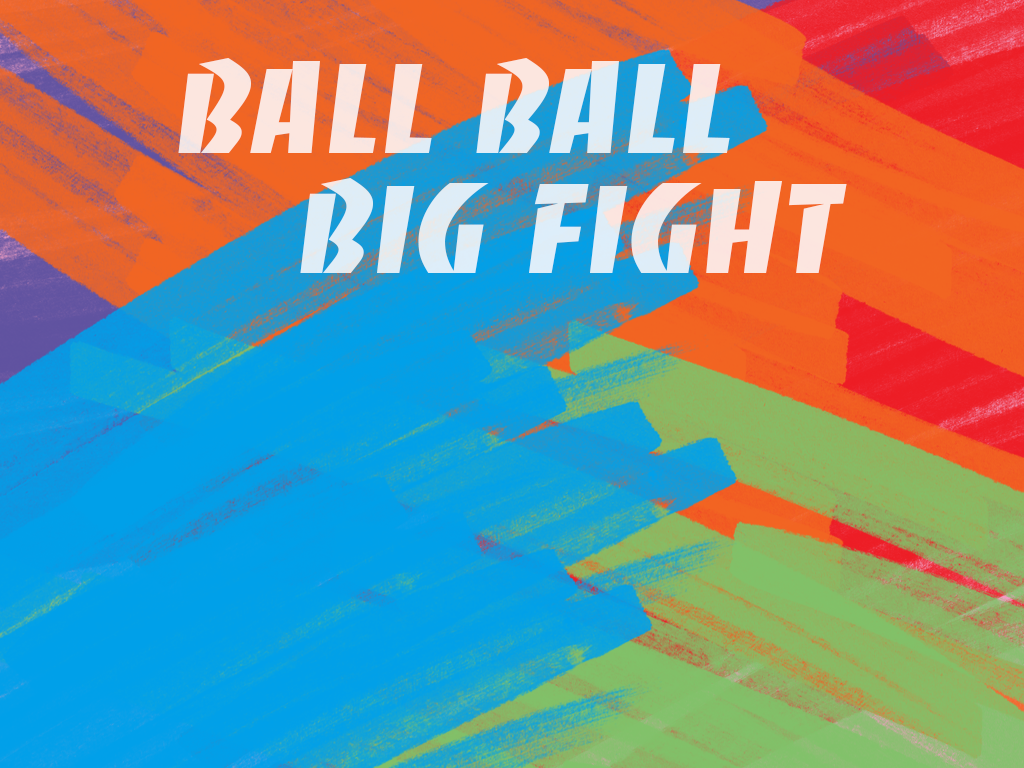
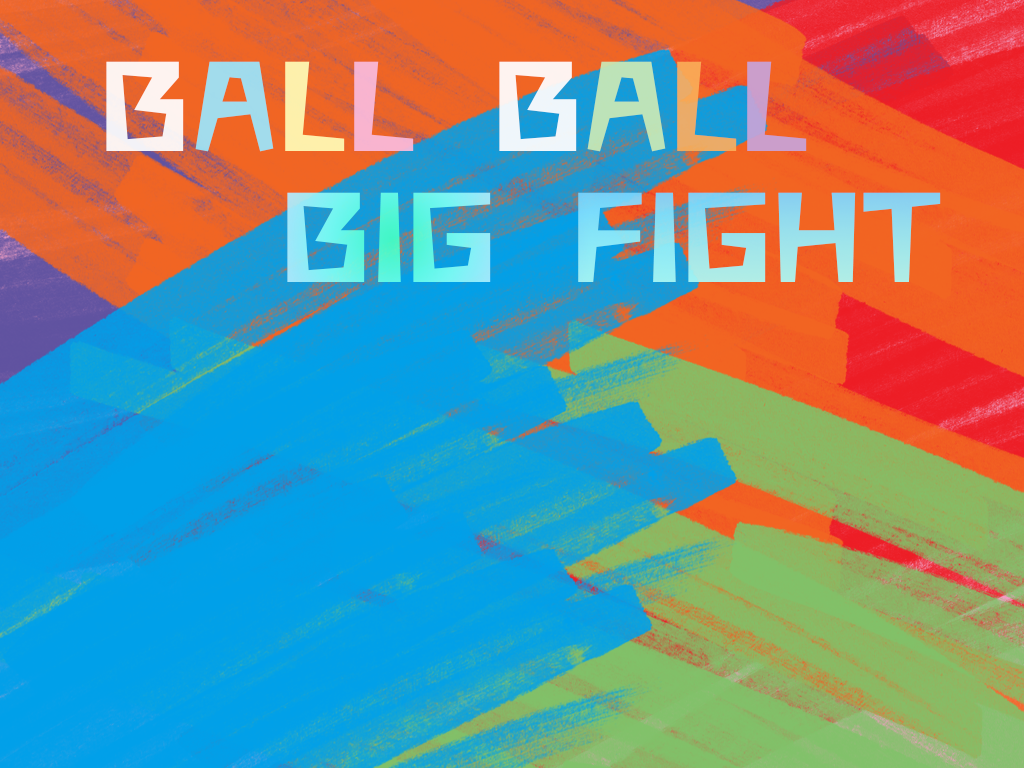
Some bugs fixed and many resourses refreshed
Some bugs fixed and many resourses refreshed!
Refer to readme.md to learn more

Changed region(s): [[0.0938, 0.0625, 0.9375, 0.375]]

diff --git a/Classes/GameScene.cpp b/Classes/GameScene.cpp
@@ -2,6 +2,7 @@
 #include "SimpleAudioEngine.h"
 #include "PauseScene.h"
 #include <time.h>
+#include <stdlib.h>
 
 #define PLAYER_SPRITE_TAG 0
 #define MOVE_ACTION_1 1
@@ -83,7 +84,12 @@ bool Game::init()
 	playerBody->setCollisionBitmask(0x01);
 	player->setPhysicsBody(playerBody);
 
-	player->setPosition(Vec2(visibleSize.width / 2, visibleSize.height / 2));//player initial position, to be completed
+
+	//player initial position
+	srand(time(NULL));
+	player->setPosition(Vec2(rand() % (int)((MAP_WIDTH_TIMES - 1) * visibleSize.width) - (MAP_WIDTH_TIMES - 1) / 2.0 * visibleSize.width,
+		rand() % (int)((MAP_HEIGHT_TIMES - 1) * visibleSize.height) - (MAP_HEIGHT_TIMES - 1) / 2.0 * visibleSize.height));
+	log("%f, %f", player->getPosition().x, player->getPosition().y);
 	this->addChild(player, 2);
 
 	vecPlayerSprite.push_back(player);
@@ -130,6 +136,7 @@ void Game::onEnter()
 		log("The key code is %d", KeyCode);
 	};
 	
+
 	//Touch listener
 	auto touchListener = EventListenerTouchOneByOne::create();
 
@@ -142,6 +149,7 @@ void Game::onEnter()
 	eventDispatcher->addEventListenerWithSceneGraphPriority(touchListener, getChildByTag(PLAYER_SPRITE_TAG));//? 
 	
 	eventDispatcher->addEventListenerWithSceneGraphPriority(KeyBoardListener, this);
+
 
 	//contact listener in physics engine
 	auto contactListener = EventListenerPhysicsContact::create();
@@ -169,6 +177,9 @@ void Game::onEnter()
 
 	//call function to calculate center
 	this->schedule(schedule_selector(Game::calCenter), 1.0 / 60.0);
+
+	//call function that changes view position using schedule
+	this->schedule(schedule_selector(Game::spriteFollowedView), 1.0 / 60.0);
 }
 
 void Game::onExit()
@@ -179,8 +190,11 @@ void Game::onExit()
     unschedule(schedule_selector(Game::tooLargeScaleControl));
 	unschedule(schedule_selector(Game::createParticlesByTime));
 	unschedule(schedule_selector(Game::calCenter));
+	unschedule(schedule_selector(Game::spriteFollowedView));
 	
-	//dismiss dispatchers?
+	//dismiss dispatchers
+	//in PauseScene.cpp init()
+	//because Pause::init() is called earlier than Game::onExit()
 }
 
 
@@ -191,10 +205,11 @@ bool if_is_moving = false;
 
 bool Game::onTouchBegan(Touch * touch, Event * event)
 {
-	Vec2 locationInNode = touch->getLocation() - viewOffset - playerCenter;
+	Vec2 locationInNode = touch->getLocation() - viewOffset * viewScale - playerCenter;
 	//log("touch %f %f", touch->getLocation().x, touch->getLocation().y);
 	//log("player %f %f", playerCenter.x, playerCenter.y);
-	//log("offset %f %f", locationInNode.x, locationInNode.y);
+	//log("view offset %f %f", viewOffset.x, viewOffset.y);
+	//log("sum offset %f %f", locationInNode.x, locationInNode.y);
 
 	//8 directions instead of any directions to move smoothly
 	float tan = abs(locationInNode.y / locationInNode.x);
@@ -231,7 +246,7 @@ bool Game::onTouchBegan(Touch * touch, Event * event)
 	}
 
 	//call function that changes view position using schedule
-	this->schedule(schedule_selector(Game::spriteFollowedView), 1.0 / 60.0);
+	//this->schedule(schedule_selector(Game::spriteFollowedView), 1.0 / 60.0);
 	
 	if_is_moving = true;
 
@@ -244,7 +259,7 @@ void Game::onTouchMoved(Touch * touch, Event * event)
 	//if the interval is too short, funtion calling too frequent, the sprite cannot move or change directions smoothly
 	if (clock() - moveStartTime > 100)
 	{
-		Vec2 locationInNode = touch->getLocation() - viewOffset - playerCenter;
+		Vec2 locationInNode = touch->getLocation() - viewOffset * viewScale - playerCenter;
 		//log("touch location: (%f,%f)", touch->getLocation().x, touch->getLocation().y);
 		//log("player center: (%f,%f)", playerCenter.x, playerCenter.y);
 		//log("offset: (%f,%f)", locationInNode.x, locationInNode.y);
@@ -354,7 +369,7 @@ void Game::onTouchEnded(Touch * touch, Event * event)
 
 		target->runAction(EaseOut::create(move, 3));*/
 
-		unschedule(schedule_selector(Game::spriteFollowedView));
+		//unschedule(schedule_selector(Game::spriteFollowedView));
 
 		if_is_moving = false;
 	}
@@ -376,7 +391,7 @@ void Game::mouseUp(Event* event)
 				vecPlayerSprite[i]->setScale(0.6 * vecPlayerSprite[i]->getScale());//0.707? 
 
 				auto player = Sprite::create("game/player50x50.png");
-				player->setColor(Color3B(0, 0, 0));
+				//player->setColor(Color3B(0, 0, 0));
 				player->setTag(PLAYER_SPRITE_TAG);
 
 				auto playerBody = PhysicsBody::createCircle(player->getContentSize().width / 4);
@@ -506,10 +521,12 @@ void Game::viewFollowingPlayerScale(float dt)
 		if (vecPlayerSprite[i]->getScale() > playerScale)
 			playerScale = vecPlayerSprite[i]->getScale();
 	}
-	playerScale *= pow((float)playerSpriteNum, 3);//math function needs to be changed
+	log("player scale %f", playerScale);
 
+	//math function needs to be changed
+	Game::viewScale = pow(playerScale, 1.0 / 5.0) * pow(0.95 + playerSpriteNum * 0.05, 1.0 / 4.0);
+	//log("view scale %f", viewScale);
 
-	Game::viewScale = pow(0.95 + playerSpriteNum * 0.05, 1.0 / 4.0);
 	this->setScale(1.0 / viewScale);
 	Size visibleSize = Director::getInstance()->getVisibleSize();
 
@@ -536,8 +553,9 @@ void Game::calCenter(float dt)
 //now only suitable for one sprite
 void Game::refreshPlayerScale(int plusOrMinus)
 {
-	//auto player = (Sprite*)getChildByTag(CONTACT_TAG);
-	auto player = this->getChildByTag(CONTACT_TAG);
+	auto player = (Sprite*)getChildByTag(CONTACT_TAG);
+	//auto player = this->getChildByTag(CONTACT_TAG);
+	//log("%p", player);
 	float playerScale = player->getScale();
 
 	if (playerScale < 4.18 || plusOrMinus < 0)
@@ -637,6 +655,7 @@ bool Game::contactBegin(PhysicsContact& contact)
 {
 	auto player = (Sprite*)contact.getShapeA()->getBody()->getNode();
 	auto littleParticle = (Sprite*)contact.getShapeB()->getBody()->getNode();
+	//log("%p, %p", player, littleParticle);
 
 	if (player && littleParticle && player->getTag() == PLAYER_SPRITE_TAG && littleParticle->getTag() == LITTLE_PARTICLE_TAG)
 	{

diff --git a/Classes/PauseScene.cpp b/Classes/PauseScene.cpp
@@ -23,9 +23,14 @@ bool PauseScene::init()
 	backGround->setPosition(Vec2(origin.x + visibleSize.width / 2, origin.y + visibleSize.height / 2));
 	this->addChild(backGround, 0);
 
+	//dismiss dispatchers
+	Director::getInstance()->getEventDispatcher()->removeAllEventListeners();
+
+
 	//sound toggle button
 	auto soundOnMenuItem = MenuItemImage::create("secondMenu/soundOn.png", "secondMenu/soundOn.png");
 	auto soundOffMenuItem = MenuItemImage::create("secondMenu/soundOff.png", "secondMenu/soundOff.png");
+
 	//judge if the bgm is playing and creat the matched scene
 	if (SimpleAudioEngine::getInstance()->isBackgroundMusicPlaying() == true)
 	{
@@ -45,17 +50,23 @@ bool PauseScene::init()
 		menu1->setPosition(Vec2::ZERO);
 		this->addChild(menu1, 0);
 	}
+
+
 	MenuItemFont::setFontName("Times New Roman");
 	MenuItemFont::setFontSize(86);
+
 	//back to the game
 	auto ContinueItem = MenuItemFont::create("Continue", CC_CALLBACK_1(PauseScene::menuContinueCallback, this));
 	ContinueItem->setPosition(Vec2(visibleSize.width / 2, visibleSize.height / 2));
+
 	//over the game
 	auto EndItem = MenuItemFont::create("Over", CC_CALLBACK_1(PauseScene::menuOverGameCallback, this));
 	EndItem->setPosition(Vec2(visibleSize.width / 2, (visibleSize.height / 2) - 200));
+
 	auto mn = Menu::create(ContinueItem, EndItem, NULL);
 	mn->setPosition(Vec2::ZERO);
 	this->addChild(mn);
+
 	return true;
 }
 
@@ -84,6 +95,8 @@ void PauseScene::menuMusicCallback(cocos2d::Ref* pSender)
 // end the game
 void PauseScene::menuOverGameCallback(cocos2d::Ref*pSender)
 {
+	Director::getInstance()->popScene();
+
 	auto sc = HelloWorld::create();
 	Director::getInstance()->replaceScene(sc);
 }

diff --git a/Classes/HelloWorldScene.cpp b/Classes/HelloWorldScene.cpp
@@ -74,20 +74,20 @@ bool HelloWorld::init()
 
 	//start button 
 	//size 250*80
-	Sprite* startSpriteNormal = Sprite::create("startScreen/startNormal.png");
-	Sprite* startSpriteSelected = Sprite::create("startScreen/startChosen.png");
+	Sprite* startSpriteNormal = Sprite::create("startScreen/start.png");
+	Sprite* startSpriteSelected = Sprite::create("startScreen/startC.png");//C for chosen
 
 	MenuItemSprite* startMenuItem = MenuItemSprite::create(startSpriteNormal, startSpriteSelected, 
 		CC_CALLBACK_1(HelloWorld::menuItemStartCallback, this));
 	startMenuItem->setPosition(Director::getInstance()->convertToGL(Vec2(visibleSize.width/2, visibleSize.height/2)));
 	
 	//Help button
-	MenuItemImage* helpMenuItem = MenuItemImage::create("startScreen/helpNormal.png", "startScreen/helpChosen.png", 
+	MenuItemImage* helpMenuItem = MenuItemImage::create("startScreen/help.png", "startScreen/helpC.png", 
 		CC_CALLBACK_1(HelloWorld::menuItemHelpCallback, this));
 	helpMenuItem->setPosition(Director::getInstance()->convertToGL(Vec2(visibleSize.width / 2, visibleSize.height / 2 + 120)));
 
 	//Options button
-	MenuItemImage* optionsMenuItem = MenuItemImage::create("startScreen/optionsNormal.png", "startScreen/optionsChose.png", //Chose instead of Chosen for a strange bug
+	MenuItemImage* optionsMenuItem = MenuItemImage::create("startScreen/options.png", "startScreen/optionsC.png",
 		CC_CALLBACK_1(HelloWorld::menuItemOptionsCallback, this));
 	optionsMenuItem->setPosition(Director::getInstance()->convertToGL(Vec2(visibleSize.width / 2, visibleSize.height / 2 + 2 * 120)));
 

diff --git a/README.md b/README.md
@@ -1,17 +1,33 @@
 # Agar.io
-The current commit is near to completing "divide"  
+The current commit fixes bugs in the last commit  
+Resources refreshed
+  
+*In older commits:*  
+*This commit is near to completing "divide"*  
   
 *you can create a new branch*  
 *based on this commit*  
 *to add and test your code*  
   
 ## In this commit:  
-Trying to enable the player's sprite to divide  
-    using right mouse  
-Many math functions need improvement  
-The first ball remains pink  
-    but the others are black  
-BallClass.h has been deleted  
+Two bugs of pause scene has been fixed  
+A bug on view scale now repaired  
+Player now born at a random position  
+Divided sprites remain pink  
+Some other optimizations  
+  
+Lots of resourses refreshed!  
+Some resourses in need provided  
+A help png has been created  
+  not a finished version  
+  
+*In older commits:*  
+*Trying to enable the player's sprite to divide*  
+    *using right mouse*  
+*Many math functions need improvement*  
+*The first ball remains pink*  
+    *but the others are black*  
+*BallClass.h has been deleted*  
   
 ## And things to be done:  
 network  
